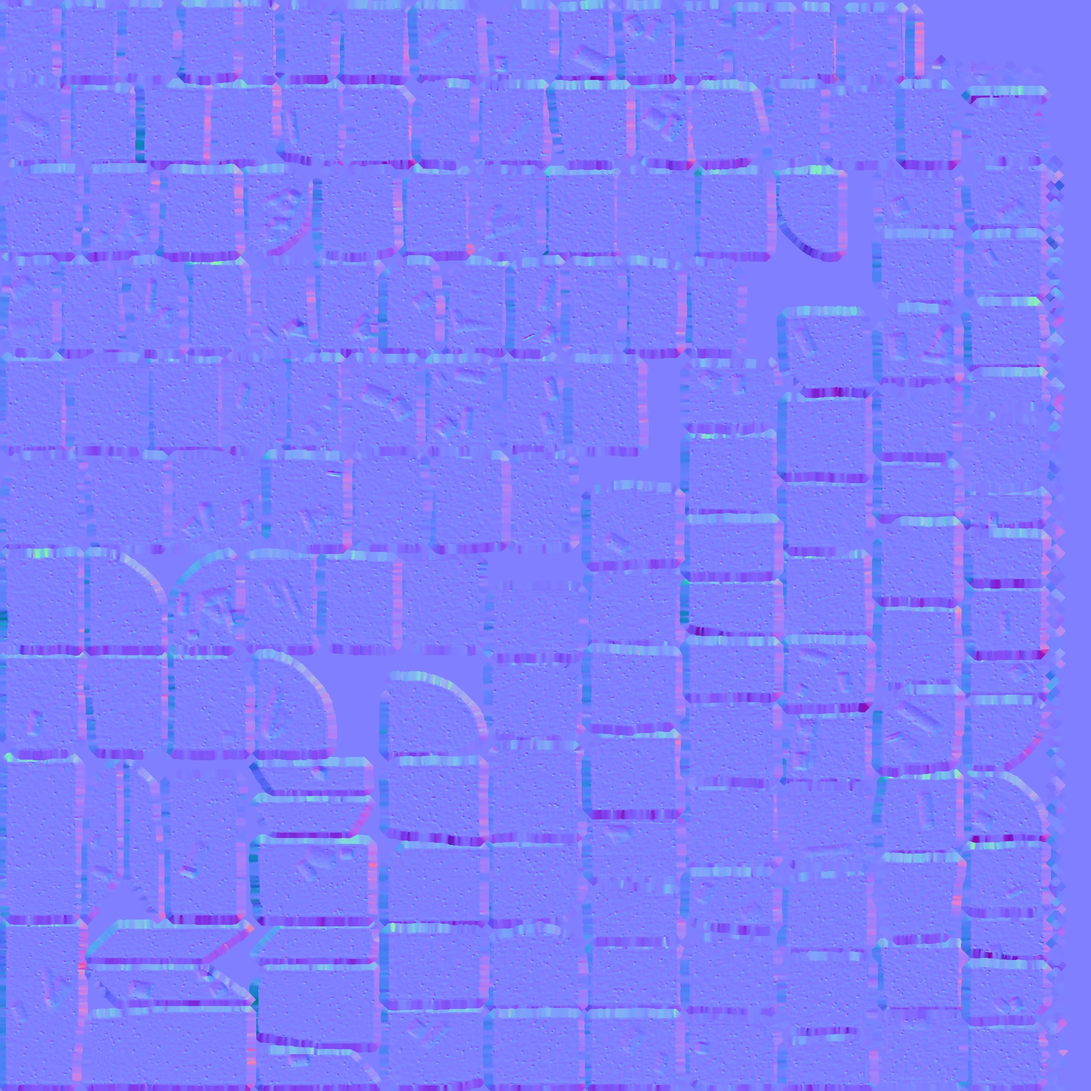
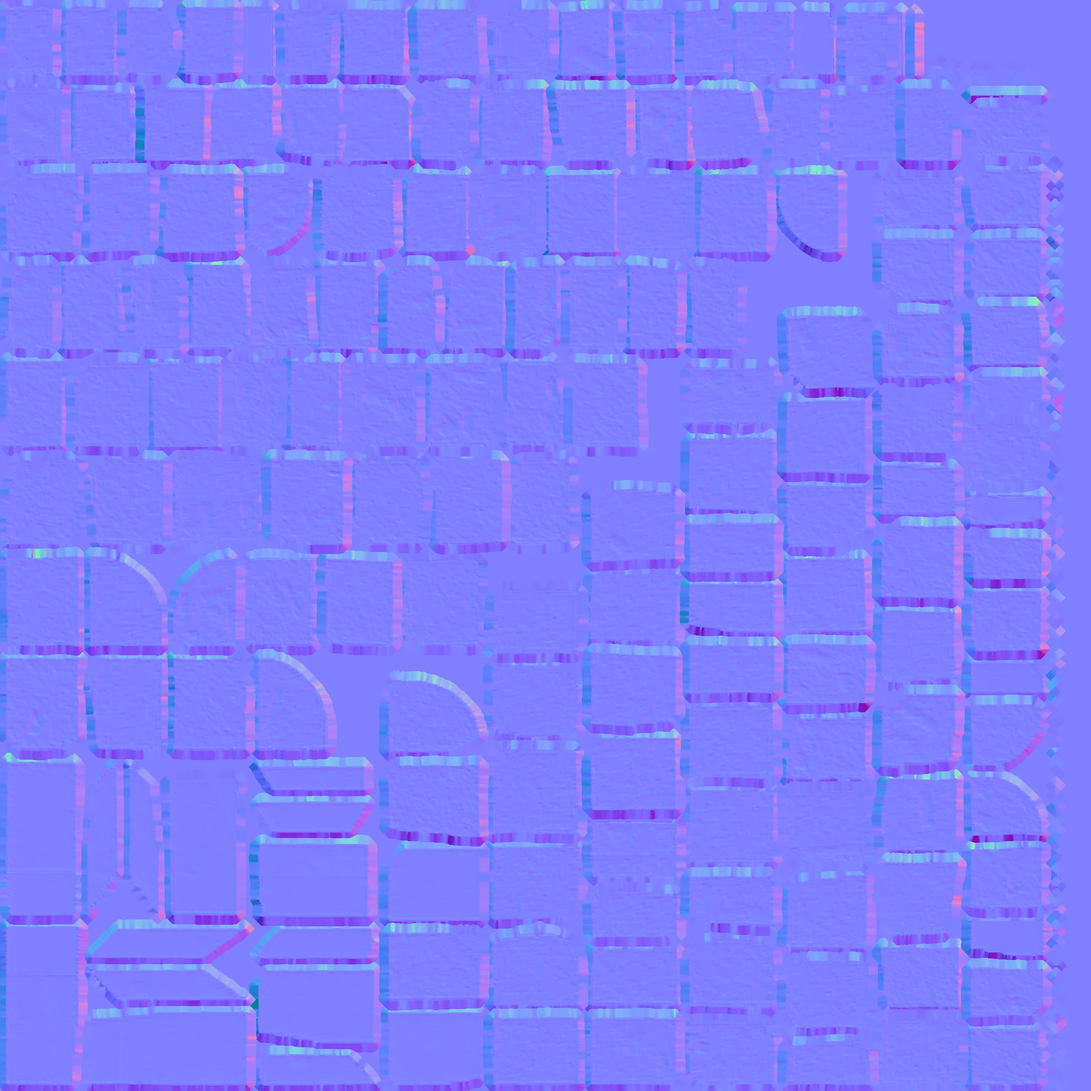
fix(login): stop hi-res sculpt self-folding and AO black holes

diff --git a/tools/blender/build_isu_blocks.py b/tools/blender/build_isu_blocks.py
@@ -46,6 +46,8 @@ FROST_AMPLITUDE = 0.0015  # 서리 결 진폭
 EDGE_PRESERVE_BAND = 0.02  # 윤곽 모서리에서 이 거리 안은 변위를 절반으로 줄인다
 ATLAS_SIZE = 2048  # 질감 아틀라스 해상도(데스크톱)
 MOBILE_ATLAS_SIZE = ATLAS_SIZE // 2  # 모바일 축소본 해상도
+BAKE_CAGE_EXTRUSION = 0.015
+BAKE_MAX_RAY_DISTANCE = 0.03
 
 
 def parse_args():
@@ -394,7 +396,10 @@ def build_chisel_marks(half, seed):
 
 
 def chisel_depth_at(marks, p, vertex_normal):
-    total = 0.0
+    # 겹치는 홈은 깊이를 더하지 않고 가장 깊은 홈만 반영한다(실제 끌 자국도 겹쳐 판다고
+    # 두 배로 깊어지지 않는다). 더하면 여러 홈이 겹치는 자리에서 국소적으로 너무 깊어져
+    # 얇은 벽(윤곽 블록, 코너 칩 자국)이 자기 자신과 겹치는 접힘을 만든다.
+    deepest = 0.0
     for mark in marks:
         along = mark["p1"] - mark["p0"]
         length_sq = along.length_squared
@@ -410,8 +415,8 @@ def chisel_depth_at(marks, p, vertex_normal):
         taper = min(smoothstep(0.0, 0.2, t), 1.0 - smoothstep(0.8, 1.0, t))
         # 그 면을 바라보는 정점에만 적용한다(다른 면으로 새지 않게).
         facing = max(0.0, vertex_normal.dot(mark["normal"])) ** 2
-        total += cross_section * taper * facing
-    return total
+        deepest = max(deepest, cross_section * taper * facing)
+    return deepest
 
 
 def cavity_depth_at(p, offset, cell):
@@ -422,7 +427,11 @@ def cavity_depth_at(p, offset, cell):
     if d0 >= threshold:
         return 0.0
     t = d0 / threshold
-    return 0.008 * (1.0 - t) + 0.004 * t
+    depth = 0.008 * (1.0 - t) + 0.004 * t
+    # 경계(t=1)에서 깊이가 0.004에서 0으로 뚝 끊기면 그 자리 기울기가 복셀 크기보다
+    # 커져 표면이 접힌다. 마지막 30%(t 0.7~1.0) 구간에서 0으로 부드럽게 뺀다.
+    taper = smoothstep(1.0, 0.7, t)
+    return depth * taper
 
 
 def build_hires_duplicate(obj, spec, seed):
@@ -443,6 +452,13 @@ def build_hires_duplicate(obj, spec, seed):
     marks = build_chisel_marks(half, seed)
     cavity_offset = Vector((seed * 7.3 + 11.0, seed * 11.9 + 5.0, seed * 4.1 + 2.0))
     frost_offset = Vector((seed * 3.1, seed * 1.7, seed * 5.3))
+    # 브리프의 홈/공동 깊이 범위를 그대로 정점 변위로 옮기면 VOXEL_HI(0.008) 한 걸음
+    # 사이의 기울기가 너무 가팔라 27블록 전체에서 표면이 자기 자신과 접혔다(quality_check
+    # inward>0). 윤곽(outline) 블록은 옆면이 비스듬히 깎여 더 얇아 배율을 더 줄인다.
+    # 실측(check_hires_quality 반복): 두 배율과 절대값 한도를 함께 낮춰야 27블록 전체
+    # inward=0 degenerate=0에 도달했다(자세한 값은 task-blender-detail-report.md 참고).
+    detail_scale = 0.12 if spec.get("outline") else 0.32
+    depth_limit = 0.0065
 
     bm = bmesh.new()
     bm.from_mesh(hires.data)
@@ -454,7 +470,9 @@ def build_hires_duplicate(obj, spec, seed):
         chisel = -chisel_depth_at(marks, p, vert.normal)
         cavity = -cavity_depth_at(p, cavity_offset, CAVITY_CELL)
         frost = noise.fractal(p * 40.0 + frost_offset, 0.9, 2.0, 3) * FROST_AMPLITUDE
-        total = (chisel + cavity + frost) * (1.0 - edge_factor_absolute(p, half) * 0.5)
+        total = (chisel + cavity + frost) * detail_scale
+        total *= 1.0 - edge_factor_absolute(p, half) * 0.5
+        total = max(-depth_limit, min(depth_limit, total))
         moves.append((vert, vert.normal.copy() * total))
     for vert, move in moves:
         vert.co += move
@@ -465,13 +483,16 @@ def build_hires_duplicate(obj, spec, seed):
     bmesh.ops.recalc_face_normals(bm, faces=bm.faces)
     bm.normal_update()
 
+    inward, degenerate = quality_check(bm, half)
+    print(f"ISU_BLOCKS hires block={hires.name} inward={inward} degenerate={degenerate}")
+
     bm.to_mesh(hires.data)
     triangle_count = sum(len(face.verts) - 2 for face in bm.faces)
     bm.free()
     for polygon in hires.data.polygons:
         polygon.use_smooth = True
     hires.data.set_sharp_from_angle(angle=math.radians(32))
-    return hires, triangle_count
+    return hires, triangle_count, inward, degenerate
 
 
 def unwrap_atlas(blocks):
@@ -593,7 +614,9 @@ def bake_detail_atlas(blocks, layout, size, limit=None):
         spec = layout[index]
         seed = index + 1
         start = time.time()
-        hires_obj, tri_count = build_hires_duplicate(obj, spec, seed)
+        hires_obj, tri_count, hires_inward, hires_degenerate = build_hires_duplicate(
+            obj, spec, seed
+        )
         hires_obj.data.materials.clear()
         hires_obj.data.materials.append(convexity_src_material)
 
@@ -608,35 +631,44 @@ def bake_detail_atlas(blocks, layout, size, limit=None):
         bpy.ops.object.bake(
             type="NORMAL",
             use_selected_to_active=True,
-            cage_extrusion=0.015,
-            max_ray_distance=0.03,
+            cage_extrusion=BAKE_CAGE_EXTRUSION,
+            max_ray_distance=BAKE_MAX_RAY_DISTANCE,
             use_clear=first,
         )
 
+        # AO 굽기는 use_selected_to_active로 목표 표면을 고르지만, 가려짐 자체는
+        # 장면 전체를 본다. 다른 26개 블록이 그대로 있으면 이웃 블록의 접촉 그늘까지
+        # 이 디테일 AO에 함께 구워져(브리프가 정점 색 R에 맡긴 몫과 겹쳐) 넓은 면이
+        # 검게 죽는다. 이 굽기 동안만 다른 블록을 렌더링에서 숨긴다.
+        others = [block for block in blocks if block is not obj]
+        for other in others:
+            other.hide_render = True
         set_active_node(material, ao_node)
         scene.world = detail_world
         scene.cycles.samples = 32
         bpy.ops.object.bake(
             type="AO",
             use_selected_to_active=True,
-            cage_extrusion=0.015,
-            max_ray_distance=0.03,
+            cage_extrusion=BAKE_CAGE_EXTRUSION,
+            max_ray_distance=BAKE_MAX_RAY_DISTANCE,
             use_clear=first,
         )
+        for other in others:
+            other.hide_render = False
 
         set_active_node(material, convexity_node)
         scene.cycles.samples = 8
         bpy.ops.object.bake(
             type="EMIT",
             use_selected_to_active=True,
-            cage_extrusion=0.015,
-            max_ray_distance=0.03,
+            cage_extrusion=BAKE_CAGE_EXTRUSION,
+            max_ray_distance=BAKE_MAX_RAY_DISTANCE,
             use_clear=first,
         )
 
         bpy.data.objects.remove(hires_obj, do_unlink=True)
         elapsed = time.time() - start
-        hires_stats.append((obj.name, tri_count, elapsed))
+        hires_stats.append((obj.name, tri_count, elapsed, hires_inward, hires_degenerate))
         print(
             f"ISU_BLOCKS hires block={obj.name} triangles={tri_count} bake_time={elapsed:.1f}s"
         )
@@ -655,7 +687,12 @@ def combine_detail_image(ao_image, convexity_image, size):
     convexity = convexity.reshape(-1, 4)
     detail_image = new_atlas_image("isu-blocks-detail", size)
     out = np.zeros_like(ao)
-    out[:, 0] = ao[:, 0]
+    # 작은 세계 조명 거리(0.05)로도 코너 칩/끌 절단면처럼 이미 저해상도 단계에서 깊게
+    # 파낸 자리는 완전히 검게(AO~0) 구워진다. 그 몫은 정점 색 R(접촉 그늘)이 이미 맡고
+    # 있으므로, 이 디테일 AO가 완전한 검은 구멍으로 보이지 않게 아래로 한도를 둔다(기존
+    # 정점 AO가 쓰는 0.3 바닥과 맞춘다). 얕은 새 끌 자국/공동은 이 바닥까지 내려가지 않아
+    # 대비가 줄지 않는다.
+    out[:, 0] = np.maximum(ao[:, 0], 0.3)
     out[:, 1] = convexity[:, 0]
     out[:, 2] = 0.0
     out[:, 3] = 1.0
@@ -910,13 +947,19 @@ def main():
     print(f"ISU_BLOCKS glb={os.path.getsize(args.out)} bytes")
 
     if hires_stats:
-        tri_values = [t for _, t, _ in hires_stats]
-        bake_times = [e for _, _, e in hires_stats]
+        tri_values = [t for _, t, _, _, _ in hires_stats]
+        bake_times = [e for _, _, e, _, _ in hires_stats]
+        hires_total_inward = sum(i for _, _, _, i, _ in hires_stats)
+        hires_total_degenerate = sum(d for _, _, _, _, d in hires_stats)
         print(
             f"ISU_BLOCKS hires_triangles_min={min(tri_values)} max={max(tri_values)} "
             f"total={sum(tri_values)}"
         )
         print(f"ISU_BLOCKS bake_time_total={sum(bake_times):.1f}s")
+        print(
+            f"ISU_BLOCKS hires_inward={hires_total_inward} "
+            f"hires_degenerate={hires_total_degenerate}"
+        )
 
     if args.preview and args.closeup:
         render_preview(blocks, layout, args.preview, args.closeup, normal_image, detail_image)
